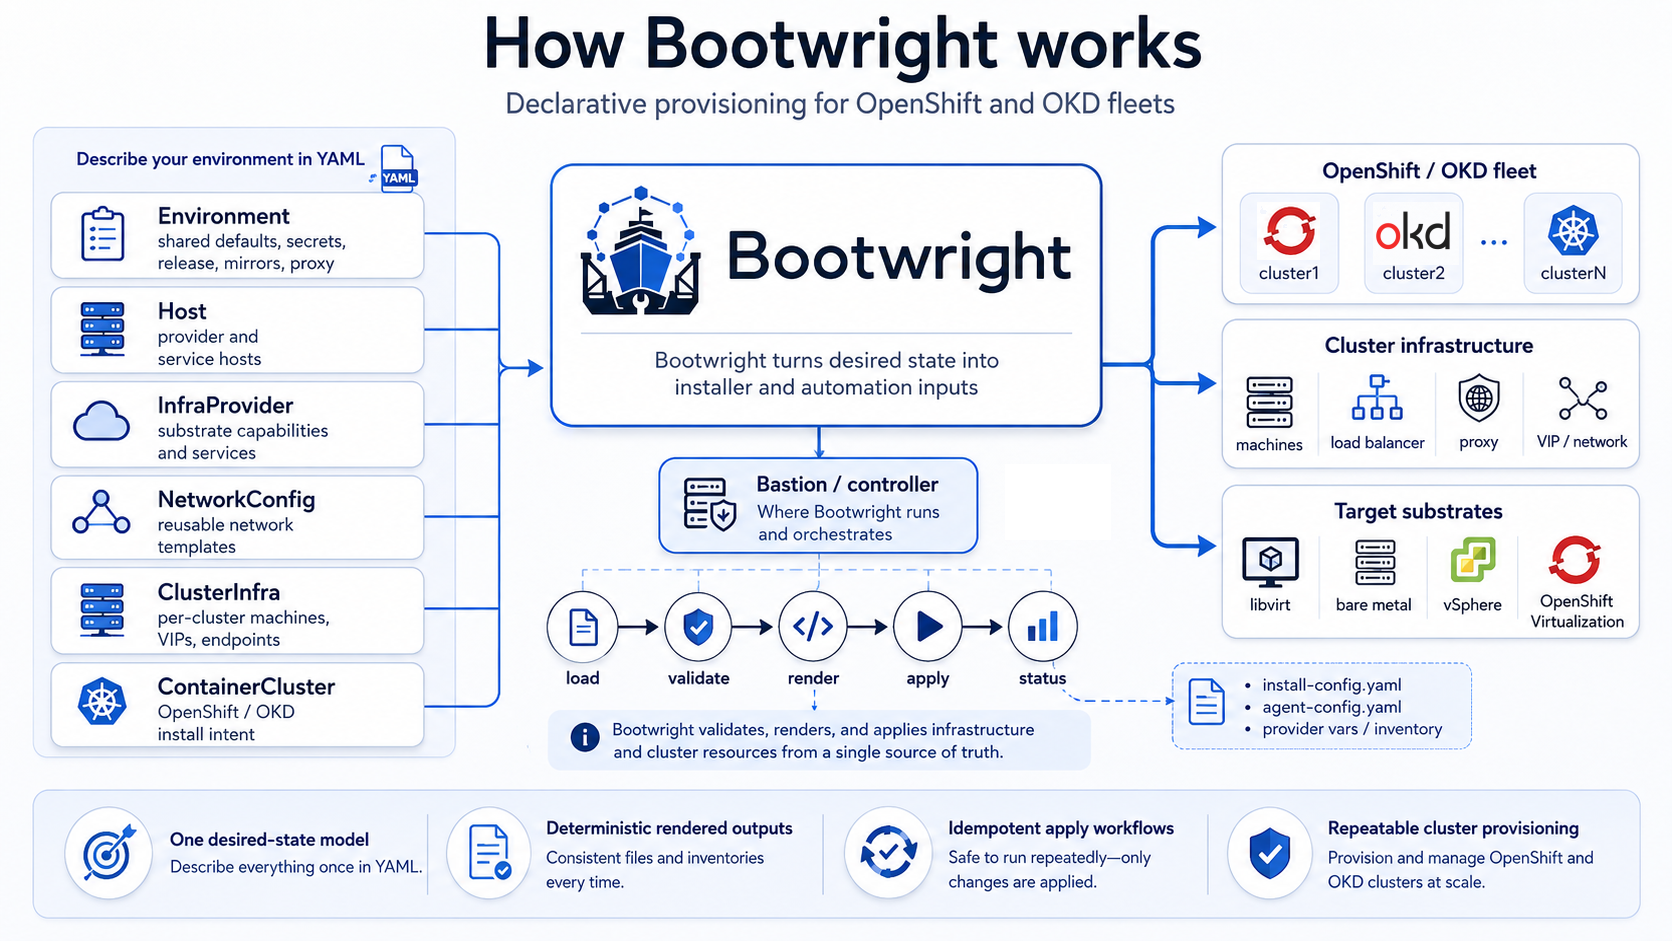
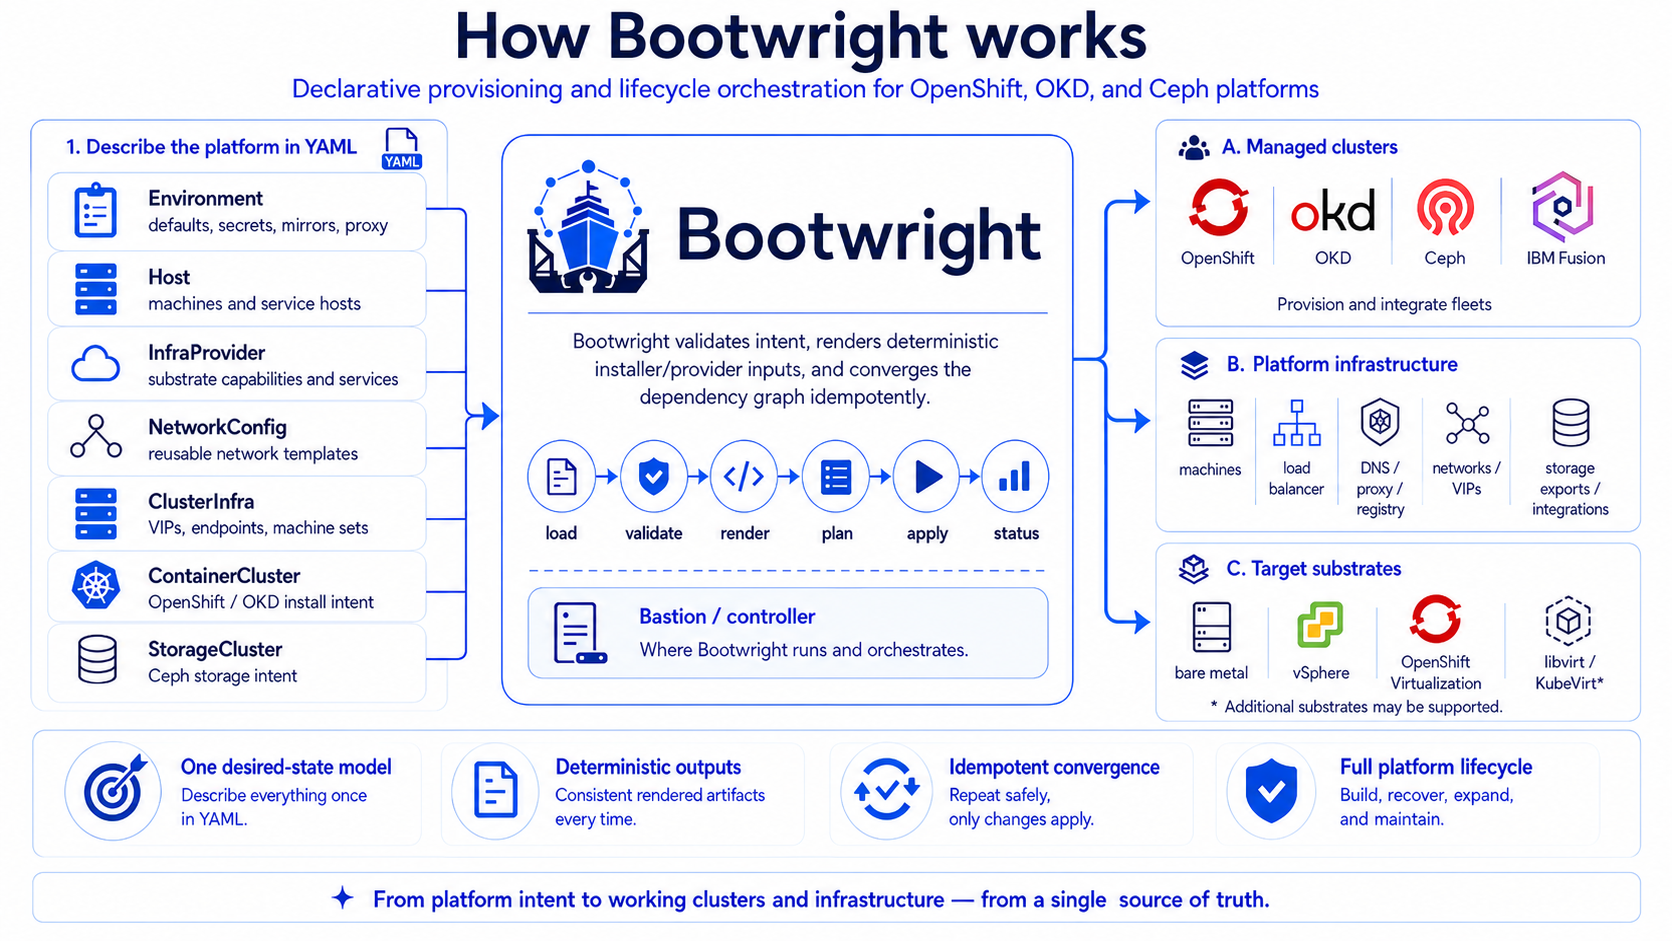
docs: source README art from docs/assets/images after removing images/

Changed region(s): [[0.0, 0.0, 0.9952, 0.9862]]

diff --git a/internal/repo/checks/image_assets_test.go b/internal/repo/checks/image_assets_test.go
@@ -1,47 +1,39 @@
 package repocheck
 
 import (
-	"bytes"
 	"os"
 	"path/filepath"
+	"regexp"
+	"strings"
 	"testing"
 )
 
-// mkdocs cannot read assets outside docs_dir, so the README's images/ and the
-// site's docs/assets/images/ keep their own copies of the shared logo/overview
-// art. Any asset present in both directories must stay byte-identical so the
-// GitHub README and the published site never drift to different diagrams.
-func TestSharedImageAssetsStayIdentical(t *testing.T) {
+// The GitHub README is rendered from the repo root and now points at the
+// published site's assets under docs/assets/images/ instead of keeping a
+// duplicate top-level images/ copy. Guard that every local image the README
+// references still resolves to a real file so the README art never 404s.
+var readmeImageSrc = regexp.MustCompile(`<img[^>]*\bsrc="([^"]+)"`)
+
+func TestReadmeImagesResolve(t *testing.T) {
 	root := repoRoot(t)
-	repoImages := filepath.Join(root, "images")
-	docsImages := filepath.Join(root, "docs", "assets", "images")
-	entries, err := os.ReadDir(repoImages)
+	readme, err := os.ReadFile(filepath.Join(root, "README.md"))
 	if err != nil {
-		t.Fatalf("read %s: %v", repoImages, err)
+		t.Fatalf("read README.md: %v", err)
 	}
-	shared := 0
-	for _, entry := range entries {
-		if entry.IsDir() {
+
+	checked := 0
+	for _, match := range readmeImageSrc.FindAllStringSubmatch(string(readme), -1) {
+		src := match[1]
+		if strings.HasPrefix(src, "http://") || strings.HasPrefix(src, "https://") {
 			continue
 		}
-		docsCopy := filepath.Join(docsImages, entry.Name())
-		if _, err := os.Stat(docsCopy); err != nil {
-			continue
-		}
-		shared++
-		a, err := os.ReadFile(filepath.Join(repoImages, entry.Name()))
-		if err != nil {
-			t.Fatalf("read %s: %v", entry.Name(), err)
-		}
-		b, err := os.ReadFile(docsCopy)
-		if err != nil {
-			t.Fatalf("read %s: %v", docsCopy, err)
-		}
-		if !bytes.Equal(a, b) {
-			t.Fatalf("images/%s and docs/assets/images/%s have drifted; keep the shared asset identical", entry.Name(), entry.Name())
+		checked++
+		path := filepath.Join(root, filepath.FromSlash(src))
+		if _, err := os.Stat(path); err != nil {
+			t.Errorf("README image %q does not resolve to a file: %v", src, err)
 		}
 	}
-	if shared == 0 {
-		t.Fatal("expected at least one shared asset between images/ and docs/assets/images/")
+	if checked == 0 {
+		t.Fatal("expected at least one local image reference in README.md")
 	}
 }

diff --git a/docs/index.md b/docs/index.md
@@ -3,7 +3,11 @@ title: Home
 description: Objective, scope, and documentation map for Bootwright.
 ---
 
-# Bootwright
+<p align="center">
+  <img src="assets/images/logo-horizontal.png"
+       alt="Bootwright"
+       width="520">
+</p>
 
 Bootwright is a desired-state orchestrator for turning cloud platform intent
 into reality. You describe the platform you want — substrates, machines, managed
@@ -12,6 +16,12 @@ OS installs, networks, shared services, clusters, storage, and bootstrap add-ons
 official tools expect (`openshift-install`, `cephadm`, `oc`, and your providers),
 and converges the dependency graph idempotently until reality matches what you
 declared.
+
+<p align="center">
+  <img src="assets/images/high-level-overview.png"
+       alt="Bootwright"
+       width="900">
+</p>
 
 The same desired state works at two scales. You can stand up a **whole cloud
 platform from scratch**, or converge a **single isolated component** for

diff --git a/README.md b/README.md
@@ -1,5 +1,5 @@
 <p align="center">
-  <img src="images/logo-circle.png" alt="Bootwright" width="400">
+  <img src="docs/assets/images/logo-circle.png" alt="Bootwright" width="400">
 </p>
 
 # Bootwright
@@ -67,7 +67,7 @@ then the infra they ran on). Unscoped `destroy --stage infra` performs
 current-context VM cleanup.
 
 <p align="center">
-  <img src="images/high-level-overview.png" alt="Bootwright overview" width="800">
+  <img src="docs/assets/images/high-level-overview.png" alt="Bootwright overview" width="800">
 </p>
 
 ## Start Here
